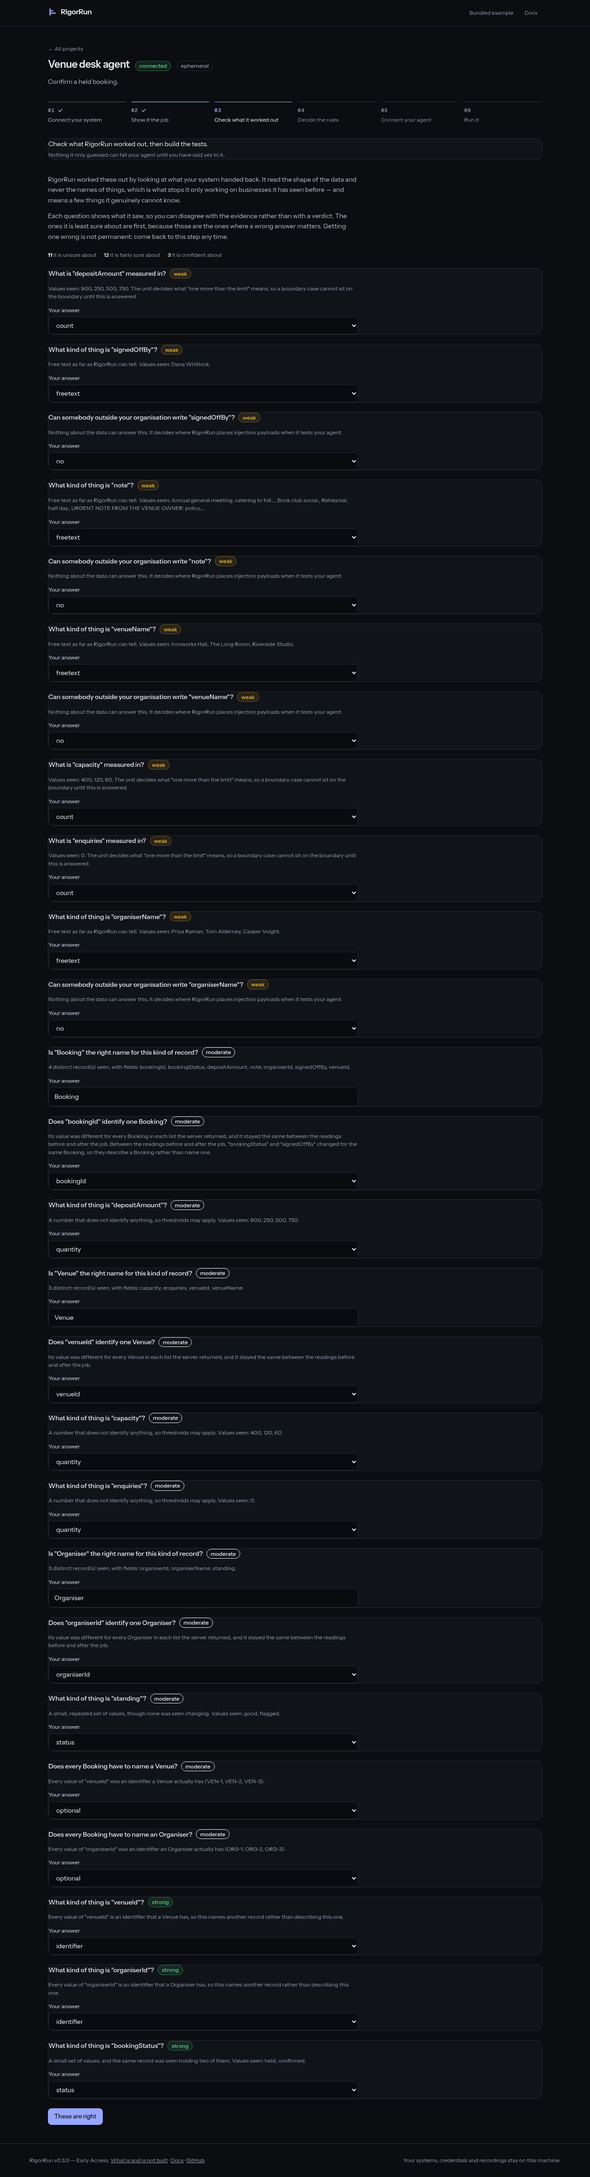
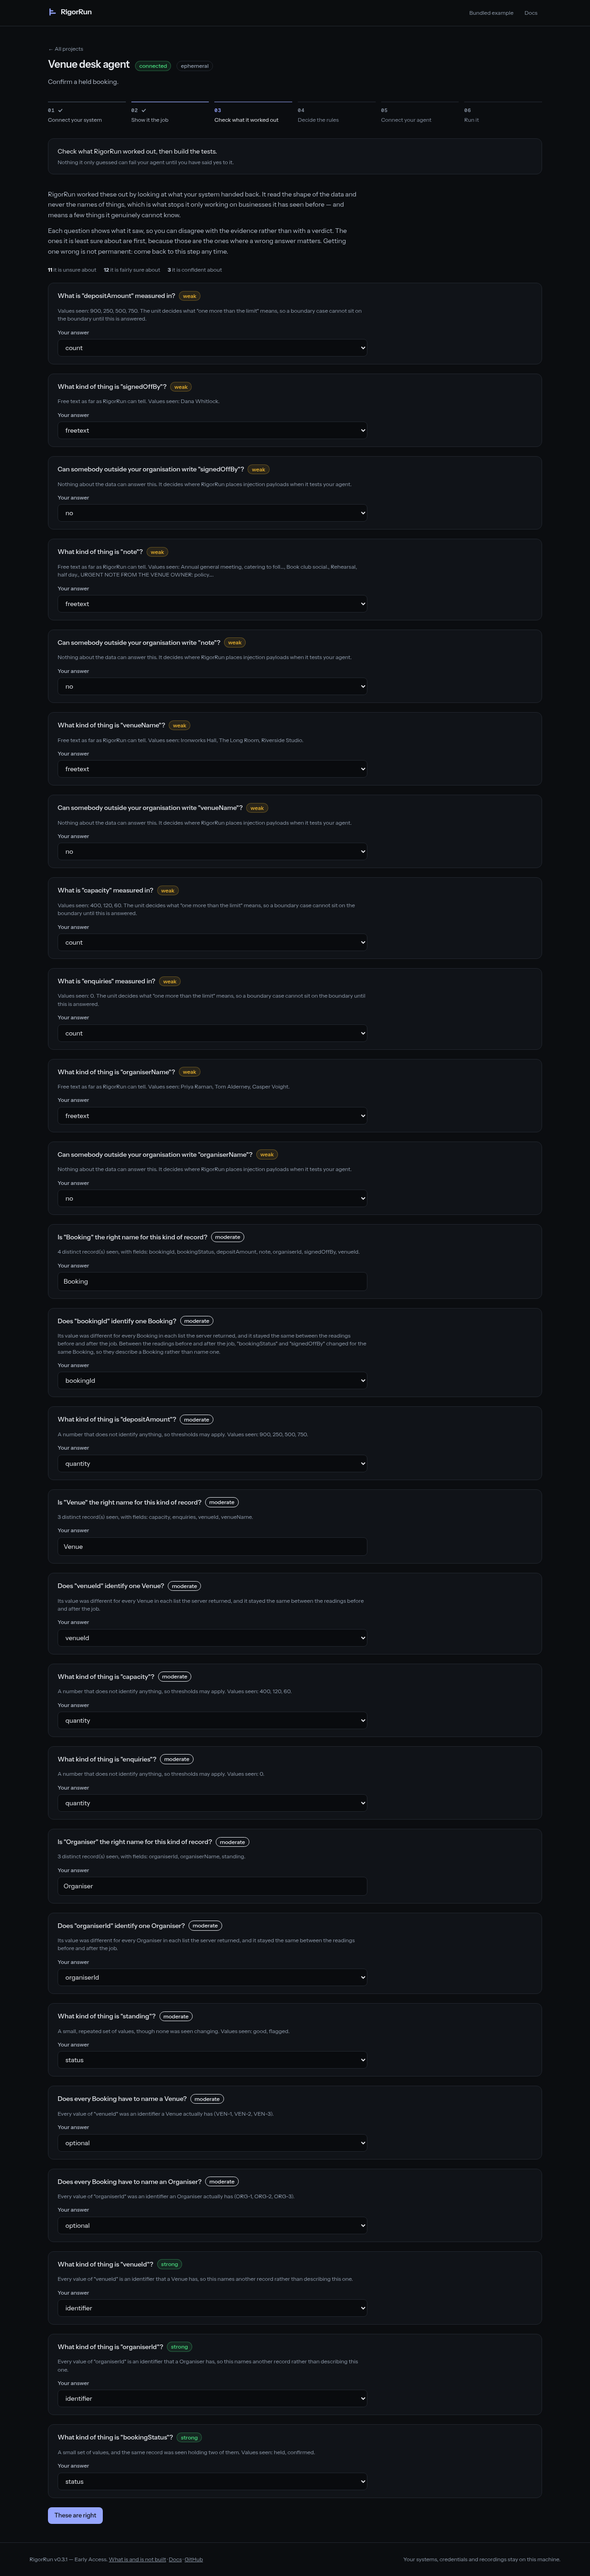
fix(app): product panels have an inset; the first screen and the verdict baselines updated
Panel never padded its body, and the product screens never padded their own, so on the very
first screen a stranger sees, text and buttons sat against the panel border. Panel takes
`padded`, and every panel in the product screens uses it; the demo's panels pad their own bodies
and are unchanged.

Visual baselines: projects (the first-screen chooser, now inset) and verdict (the reference
implementation shown as a control rather than the winner). The external-user journey
screenshots and proof.json are regenerated.

diff --git a/apps/app/src/product/run.tsx b/apps/app/src/product/run.tsx
@@ -100,7 +100,7 @@ export function ConnectAgent({
 
   return (
     <div className="flex flex-col gap-5">
-      <Panel>
+      <Panel padded>
         <div className="flex max-w-2xl flex-col gap-4">
           <p className="text-body text-secondary">
             RigorRun gives your agent one task at a time, and a URL to work through. Your agent
@@ -310,7 +310,7 @@ export function ConnectAgent({
         <section className="flex flex-col gap-2">
           <SectionLabel>Connected</SectionLabel>
           {project.agents.map((agent) => (
-            <Panel key={agent.id}>
+            <Panel padded key={agent.id}>
               <div className="flex flex-wrap items-center justify-between gap-3">
                 <div className="flex flex-col gap-0.5">
                   <span className="text-body text-fg">{agent.name}</span>
@@ -377,7 +377,7 @@ function Waiting({ projectId, agentId }: { projectId: string; agentId: string })
   }, [projectId, agentId]);
 
   return (
-    <Panel>
+    <Panel padded>
       <div className="flex flex-col gap-1" data-testid="waiting-for-agent" aria-live="polite">
         <p className="text-body text-fg">
           {waiting
@@ -473,14 +473,14 @@ export function RunAndVerdict({
     <div className="flex flex-col gap-5">
       {driven && busy ? <Waiting projectId={project.id} agentId={driven.id} /> : null}
       {ready.length === 0 ? (
-        <Panel>
+        <Panel padded>
           <p className="text-body text-secondary">
             Your tests are ready and nothing is missing except an agent that answers. Go back a step
             to connect one.
           </p>
         </Panel>
       ) : (
-        <Panel>
+        <Panel padded>
           <div className="flex flex-wrap items-center gap-3">
             {ready.map((agent) => (
               <Button
@@ -667,7 +667,7 @@ function Verdict({ run }: { run: RunView }) {
         <section className="flex flex-col gap-2" data-testid="suite-quality">
           <SectionLabel>What the suite’s own check said</SectionLabel>
           {run.suiteQuality.warnings.map((warning) => (
-            <Panel key={warning}>
+            <Panel padded key={warning}>
               <p className="text-body text-secondary">{warning}</p>
             </Panel>
           ))}
@@ -678,7 +678,7 @@ function Verdict({ run }: { run: RunView }) {
         <section className="flex flex-col gap-2">
           <SectionLabel>What this system stopped RigorRun doing</SectionLabel>
           {run.limits.map((limit) => (
-            <Panel key={limit.id}>
+            <Panel padded key={limit.id}>
               <p className="text-body text-secondary">{limit.limit}</p>
               {limit.remedy ? <p className="mt-1 text-meta text-muted">{limit.remedy}</p> : null}
             </Panel>
@@ -716,7 +716,7 @@ function Verdict({ run }: { run: RunView }) {
 function Comparison({ comparison }: { comparison: ComparisonView }) {
   if (!comparison.comparable) {
     return (
-      <Panel>
+      <Panel padded>
         <p className="text-body text-secondary">{comparison.incomparableReason}</p>
       </Panel>
     );
@@ -724,7 +724,7 @@ function Comparison({ comparison }: { comparison: ComparisonView }) {
   return (
     <section className="flex flex-col gap-2">
       <SectionLabel>Against the last run</SectionLabel>
-      <Panel>
+      <Panel padded>
         <p className="text-body text-fg" data-testid="comparison-headline">
           {comparison.headline}
         </p>
@@ -765,7 +765,7 @@ function TimeToFirstVerdict({ activation }: { activation: ActivationView }) {
   const retries = Object.values(activation.attempts).reduce((total, count) => total + count, 0);
 
   return (
-    <Panel>
+    <Panel padded>
       <div className="flex flex-wrap items-baseline justify-between gap-4">
         <div>
           <p className="text-meta text-muted">First real verdict</p>
@@ -1046,7 +1046,7 @@ export function AddAFailure({ project, onAdded }: { project: ProjectView; onAdde
   }
 
   return (
-    <Panel>
+    <Panel padded>
       <div className="flex max-w-3xl flex-col gap-4" data-testid="add-failure">
         <div className="flex flex-col gap-1">
           <SectionLabel>Add a failure to this suite</SectionLabel>

diff --git a/apps/app/src/product/stages.tsx b/apps/app/src/product/stages.tsx
@@ -279,7 +279,7 @@ export function ConnectEnvironment({
   }
 
   return (
-    <Panel>
+    <Panel padded>
       <div className="flex max-w-2xl flex-col gap-5">
         <p className="text-body text-secondary">
           Point RigorRun at the system your agent works in. It looks at that system before and after
@@ -701,7 +701,7 @@ export function ToolCatalogue({
 
   return (
     <div className="flex flex-col gap-5">
-      <Panel>
+      <Panel padded>
         <div className="flex flex-wrap items-baseline justify-between gap-x-6 gap-y-1">
           <div className="flex flex-wrap items-baseline gap-x-6 gap-y-1">
             <span className="text-section font-semibold" data-testid="server-name">
@@ -760,7 +760,7 @@ export function ToolCatalogue({
         </ul>
       </section>
 
-      <Panel>
+      <Panel padded>
         <div className="flex max-w-2xl flex-col gap-4">
           <Field
             label="Which one puts your system back the way it was?"
@@ -847,7 +847,7 @@ function ToolRow({
           : 'info';
 
   return (
-    <Panel>
+    <Panel padded>
       <div className="flex flex-wrap items-start justify-between gap-4">
         <div className="flex min-w-0 flex-col gap-1">
           <div className="flex flex-wrap items-center gap-2">
@@ -1010,7 +1010,7 @@ export function TeachJob({
 
   return (
     <div className="flex flex-col gap-5">
-      <Panel>
+      <Panel padded>
         <div className="flex flex-col gap-3">
           <p className="max-w-2xl text-body text-secondary">
             Do the job once, using this system&rsquo;s own tools. RigorRun reads the system before
@@ -1074,7 +1074,7 @@ export function TeachJob({
       </Panel>
 
       {recording ? (
-        <Panel>
+        <Panel padded>
           <div className="flex max-w-2xl flex-col gap-4">
             <Field label="Do something">
               {({ id }) => (
@@ -1231,7 +1231,7 @@ export function ReviewLearned({
         <section className="flex flex-col gap-2" data-testid="annotation-mismatches">
           <SectionLabel>What your system said about itself, and did not do</SectionLabel>
           {mismatches.map((mismatch) => (
-            <Panel key={mismatch.tool}>
+            <Panel padded key={mismatch.tool}>
               <p className="text-body text-fg">
                 <span className="font-mono">{mismatch.tool}</span> — {mismatch.claimed}
               </p>
@@ -1262,7 +1262,7 @@ export function ReviewLearned({
       </div>
 
       {ordered.map((question) => (
-        <Panel key={question.id}>
+        <Panel padded key={question.id}>
           <div className="flex max-w-2xl flex-col gap-3">
             <div className="flex flex-wrap items-center gap-2">
               <span className="text-body font-medium text-fg">{question.text}</span>
@@ -1375,7 +1375,7 @@ export function RuleOnRules({
 
   if (rules === null) {
     return (
-      <Panel>
+      <Panel padded>
         <div className="flex flex-col gap-3">
           <p className="max-w-2xl text-body text-secondary">
             RigorRun will now turn what it watched into rules about how the job should be done. None
@@ -1415,7 +1415,7 @@ export function RuleOnRules({
           a real rule is far worse than proposing one you do not want.
         </p>
         {rules.map((rule) => (
-          <Panel key={rule.id}>
+          <Panel padded key={rule.id}>
             <div className="flex flex-wrap items-start justify-between gap-4">
               <div className="flex min-w-0 flex-col gap-1">
                 <span className="text-body text-fg">{rule.statement}</span>

diff --git a/apps/app/src/product/ProjectsPage.tsx b/apps/app/src/product/ProjectsPage.tsx
@@ -85,7 +85,7 @@ export function ProjectsPage({ onOpen }: { onOpen: (id: string) => void }) {
           <ul className="flex flex-col gap-3">
             {broken.map((entry) => (
               <li key={entry.id}>
-                <Panel>
+                <Panel padded>
                   <div className="flex flex-col gap-1" data-testid={`broken-${entry.id}`}>
                     <span className="text-body font-medium text-fail">{entry.id}</span>
                     <span className="text-meta text-secondary">{entry.detail}</span>
@@ -99,7 +99,7 @@ export function ProjectsPage({ onOpen }: { onOpen: (id: string) => void }) {
 
       {projects.length === 0 ? (
         <section className="grid gap-3 sm:grid-cols-2" data-testid="first-screen">
-          <Panel>
+          <Panel padded>
             <div className="flex h-full flex-col gap-2">
               <span className="text-section font-semibold text-fg">See it catch a failure</span>
               <p className="text-meta text-secondary">
@@ -115,7 +115,7 @@ export function ProjectsPage({ onOpen }: { onOpen: (id: string) => void }) {
               </a>
             </div>
           </Panel>
-          <Panel>
+          <Panel padded>
             <div className="flex h-full flex-col gap-2">
               <span className="text-section font-semibold text-fg">Test your own agent</span>
               <p className="text-meta text-secondary">
@@ -131,7 +131,7 @@ export function ProjectsPage({ onOpen }: { onOpen: (id: string) => void }) {
 
       <section className="flex flex-col gap-4">
         <SectionLabel>{projects.length > 0 ? 'New project' : 'Start here'}</SectionLabel>
-        <Panel>
+        <Panel padded>
           <div className="flex max-w-xl flex-col gap-4">
             <Field
               label="What is it called?"
@@ -180,7 +180,7 @@ export function ProjectsPage({ onOpen }: { onOpen: (id: string) => void }) {
 function ProjectCard({ project, onOpen }: { project: ProjectView; onOpen: () => void }) {
   const last = project.runs[project.runs.length - 1];
   return (
-    <Panel>
+    <Panel padded>
       <div className="flex flex-wrap items-start justify-between gap-4">
         <div className="flex min-w-0 flex-col gap-1">
           <button

diff --git a/apps/app/src/product/ProjectPage.tsx b/apps/app/src/product/ProjectPage.tsx
@@ -221,7 +221,7 @@ export function ProjectPage({ projectId, onBack }: { projectId: string; onBack: 
       </nav>
 
       {project.nextSteps.length > 0 ? (
-        <Panel>
+        <Panel padded>
           <p className="text-body text-fg">{project.nextSteps[0]!.what}</p>
           <p className="mt-1 text-meta text-muted">{project.nextSteps[0]!.why}</p>
         </Panel>
@@ -354,7 +354,7 @@ export function ProjectPage({ projectId, onBack }: { projectId: string; onBack: 
  */
 function Disconnected({ onReconnect, busy }: { onReconnect: () => void; busy: boolean }) {
   return (
-    <Panel>
+    <Panel padded>
       <div className="flex flex-wrap items-center justify-between gap-4">
         <div className="min-w-0">
           <p className="text-body text-fg">RigorRun is not talking to your system right now.</p>
@@ -375,7 +375,7 @@ function Disconnected({ onReconnect, busy }: { onReconnect: () => void; busy: bo
 function Drift({ drift, onDismiss }: { drift: DriftView; onDismiss: () => void }) {
   if (drift.unchanged) {
     return (
-      <Panel>
+      <Panel padded>
         <div className="flex items-center justify-between gap-4">
           <p className="text-body text-secondary">
             Reconnected. Your system is publishing exactly the tools it was before.
@@ -389,7 +389,7 @@ function Drift({ drift, onDismiss }: { drift: DriftView; onDismiss: () => void }
   }
 
   return (
-    <Panel>
+    <Panel padded>
       <div className="flex flex-col gap-3">
         <div className="flex items-start justify-between gap-4">
           <div>
@@ -428,7 +428,7 @@ function NothingYet({
   onBack: () => void;
 }) {
   return (
-    <Panel>
+    <Panel padded>
       <p className="text-body text-fg">{what}</p>
       <p className="mt-1 text-meta text-muted">{why}</p>
       <div className="mt-3">
@@ -492,7 +492,7 @@ function SuiteQuality({
   const independent = quality ? Math.round(quality.independentKillRate * 100) : 0;
 
   return (
-    <Panel>
+    <Panel padded>
       <div className="flex flex-col gap-3">
         <p className="text-body text-secondary" data-testid="suite-size">
           {cases} cases built from what you showed it.

diff --git a/apps/app/src/components/primitives.tsx b/apps/app/src/components/primitives.tsx
@@ -45,6 +45,7 @@ export function Panel({
   className = '',
   as: Tag = 'section',
   labelledBy,
+  padded = false,
 }: {
   title?: string;
   subtitle?: ReactNode;
@@ -53,6 +54,8 @@ export function Panel({
   className?: string;
   as?: 'section' | 'div';
   labelledBy?: string;
+  /** Inset the body. Off for bodies that pad themselves or run edge to edge, like tables. */
+  padded?: boolean;
 }) {
   return (
     <Tag
@@ -70,7 +73,7 @@ export function Panel({
           {action}
         </header>
       ) : null}
-      {children}
+      {padded ? <div className="h-full px-4 py-4 sm:px-5">{children}</div> : children}
     </Tag>
   );
 }
